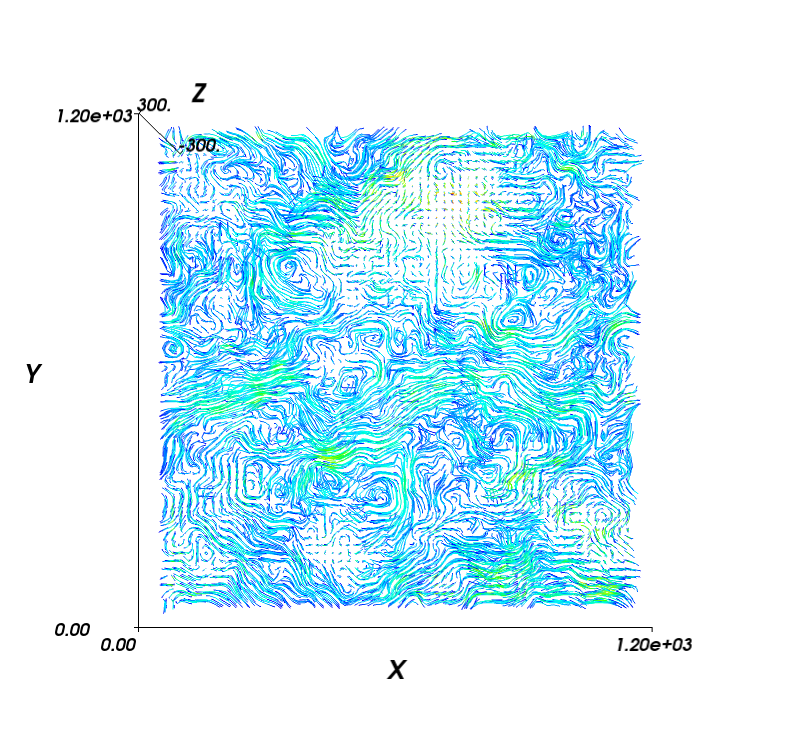
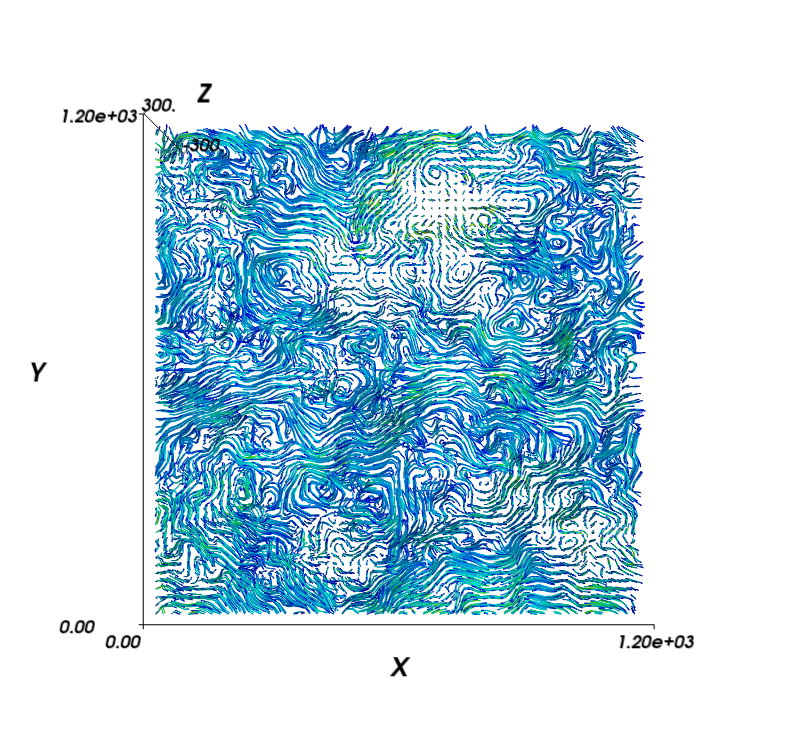
-updated docstring for MDAnalysis.visualization.streamlines_3D to include an example using the new coordinate boundary arguments -attempting a selective docs rebuild that only commits the modified pages/ images rather than full commit / push of mostly unchanged html pages

diff --git a/package/doc/html/documentation_pages/visualization/streamlines_3D.html b/package/doc/html/documentation_pages/visualization/streamlines_3D.html
@@ -100,13 +100,13 @@
 </tr>
 <tr class="field-odd field"><th class="field-name">Copyright:</th><td class="field-body">GNU Public License v3</td>
 </tr>
-<tr class="field-even field"><th class="field-name">Citation:</th><td class="field-body"><a class="reference internal" href="streamlines.html#chavent-and-reddy-2014">[Chavent_and_Reddy_2014]</a></td>
+<tr class="field-even field"><th class="field-name">Citation:</th><td class="field-body"><a class="reference internal" href="streamlines.html#chavent2014">[Chavent2014]</a></td>
 </tr>
 </tbody>
 </table>
 <dl class="function">
 <dt id="MDAnalysis.visualization.streamlines_3D.generate_streamlines_3d">
-<tt class="descclassname">MDAnalysis.visualization.streamlines_3D.</tt><tt class="descname">generate_streamlines_3d</tt><big>(</big><em>coordinate_file_path</em>, <em>trajectory_file_path</em>, <em>grid_spacing</em>, <em>MDA_selection</em>, <em>start_frame</em>, <em>end_frame</em>, <em>buffer_value=30.0</em>, <em>maximum_delta_magnitude=2.0</em>, <em>num_cores='maximum'</em><big>)</big><a class="reference internal" href="../../_modules/MDAnalysis/visualization/streamlines_3D.html#generate_streamlines_3d"><span class="viewcode-link">[source]</span></a><a class="headerlink" href="#MDAnalysis.visualization.streamlines_3D.generate_streamlines_3d" title="Permalink to this definition">¶</a></dt>
+<tt class="descclassname">MDAnalysis.visualization.streamlines_3D.</tt><tt class="descname">generate_streamlines_3d</tt><big>(</big><em>coordinate_file_path</em>, <em>trajectory_file_path</em>, <em>grid_spacing</em>, <em>MDA_selection</em>, <em>start_frame</em>, <em>end_frame</em>, <em>xmin</em>, <em>xmax</em>, <em>ymin</em>, <em>ymax</em>, <em>zmin</em>, <em>zmax</em>, <em>maximum_delta_magnitude=2.0</em>, <em>num_cores='maximum'</em><big>)</big><a class="reference internal" href="../../_modules/MDAnalysis/visualization/streamlines_3D.html#generate_streamlines_3d"><span class="viewcode-link">[source]</span></a><a class="headerlink" href="#MDAnalysis.visualization.streamlines_3D.generate_streamlines_3d" title="Permalink to this definition">¶</a></dt>
 <dd><p>Produce the x, y and z components of a 3D streamplot data set.</p>
 <table class="docutils field-list" frame="void" rules="none">
 <col class="field-name" />
@@ -117,7 +117,7 @@
 <dd><p class="first last">Absolute path to the coordinate file</p>
 </dd>
 <dt><strong>trajectory_file_path</strong> <span class="classifier-delimiter">:</span> <span class="classifier">str</span></dt>
-<dd><p class="first last">Absolute path to the trajectory file. It will normally be desirable to filter the trajectory with a tool such as GROMACS g_filter (see <a class="reference internal" href="streamlines.html#chavent-and-reddy-2014">[Chavent_and_Reddy_2014]</a>)</p>
+<dd><p class="first last">Absolute path to the trajectory file. It will normally be desirable to filter the trajectory with a tool such as GROMACS g_filter (see <a class="reference internal" href="streamlines.html#chavent2014">[Chavent2014]</a>)</p>
 </dd>
 <dt><strong>grid_spacing</strong> <span class="classifier-delimiter">:</span> <span class="classifier">float</span></dt>
 <dd><p class="first last">The spacing between grid lines (angstroms)</p>
@@ -131,8 +131,23 @@
 <dt><strong>end_frame</strong> <span class="classifier-delimiter">:</span> <span class="classifier">int</span></dt>
 <dd><p class="first last">Last frame number to parse</p>
 </dd>
-<dt><strong>buffer_value</strong> <span class="classifier-delimiter">:</span> <span class="classifier">float</span></dt>
-<dd><p class="first last">Extra space placed around the Cartesian limits of the 3D system when assigning the boundaries (angstroms; default: 30.0). Use to avoid neglecting particles near the edges of the system.</p>
+<dt><strong>xmin</strong> <span class="classifier-delimiter">:</span> <span class="classifier">float</span></dt>
+<dd><p class="first last">Minimum coordinate boundary for x-axis (angstroms)</p>
+</dd>
+<dt><strong>xmax</strong> <span class="classifier-delimiter">:</span> <span class="classifier">float</span></dt>
+<dd><p class="first last">Maximum coordinate boundary for x-axis (angstroms)</p>
+</dd>
+<dt><strong>ymin</strong> <span class="classifier-delimiter">:</span> <span class="classifier">float</span></dt>
+<dd><p class="first last">Minimum coordinate boundary for y-axis (angstroms)</p>
+</dd>
+<dt><strong>ymax</strong> <span class="classifier-delimiter">:</span> <span class="classifier">float</span></dt>
+<dd><p class="first last">Maximum coordinate boundary for y-axis (angstroms)</p>
+</dd>
+<dt><strong>zmin</strong> <span class="classifier-delimiter">:</span> <span class="classifier">float</span></dt>
+<dd><p class="first last">Minimum coordinate boundary for z-axis (angstroms)</p>
+</dd>
+<dt><strong>zmax</strong> <span class="classifier-delimiter">:</span> <span class="classifier">float</span></dt>
+<dd><p class="first last">Maximum coordinate boundary for z-axis (angstroms)</p>
 </dd>
 <dt><strong>maximum_delta_magnitude</strong> <span class="classifier-delimiter">:</span> <span class="classifier">float</span></dt>
 <dd><p class="first last">Absolute value of the largest displacement (in dx,dy, or dz) tolerated for the centroid of a group of particles (angstroms; default: 2.0). Values above this displacement will not count in the streamplot (treated as excessively large displacements crossing the periodic boundary)</p>
@@ -165,22 +180,30 @@
 <span class="kn">import</span> <span class="nn">MDAnalysis.visualization.streamlines_3D</span>
 <span class="kn">import</span> <span class="nn">mayavi</span><span class="o">,</span> <span class="nn">mayavi.mlab</span>
 
-<span class="n">x1</span><span class="p">,</span> <span class="n">y1</span><span class="p">,</span> <span class="n">z1</span> <span class="o">=</span> <span class="n">MDAnalysis</span><span class="o">.</span><span class="n">visualization</span><span class="o">.</span><span class="n">streamlines_3D</span><span class="o">.</span><span class="n">generate_streamlines_3d</span><span class="p">(</span><span class="s">&#39;testing.gro&#39;</span><span class="p">,</span><span class="s">&#39;testing_filtered.xtc&#39;</span><span class="p">,</span><span class="n">buffer_value</span> <span class="o">=</span> <span class="mi">30</span><span class="p">,</span> <span class="n">grid_spacing</span> <span class="o">=</span> <span class="mi">20</span><span class="p">,</span> <span class="n">MDA_selection</span> <span class="o">=</span> <span class="s">&#39;name PO4&#39;</span><span class="p">,</span><span class="n">start_frame</span><span class="o">=</span><span class="mi">2</span><span class="p">,</span><span class="n">end_frame</span><span class="o">=</span><span class="mi">3</span><span class="p">,</span><span class="n">num_cores</span><span class="o">=</span><span class="s">&#39;maximum&#39;</span><span class="p">)</span>
-<span class="k">print</span> <span class="n">x1</span><span class="o">.</span><span class="n">shape</span><span class="p">,</span><span class="n">y1</span><span class="o">.</span><span class="n">shape</span><span class="p">,</span><span class="n">z1</span><span class="o">.</span><span class="n">shape</span>
-<span class="n">x</span><span class="p">,</span><span class="n">y</span><span class="p">,</span><span class="n">z</span><span class="o">=</span> <span class="n">numpy</span><span class="o">.</span><span class="n">mgrid</span><span class="p">[</span><span class="o">-</span><span class="mf">8.73</span><span class="p">:</span><span class="mf">1225.96</span><span class="p">:</span><span class="mi">62j</span><span class="p">,</span><span class="o">-</span><span class="mf">12.58</span><span class="p">:</span><span class="mf">1224.34</span><span class="p">:</span><span class="mi">62j</span><span class="p">,</span><span class="mf">12.89</span><span class="p">:</span><span class="mf">108.5</span><span class="p">:</span><span class="mi">6j</span><span class="p">]</span> <span class="c">#bilayer test grid (use same shapes as x1,y1,z1)</span>
-<span class="c">#use a grid of seed lines to produce the streamlines:</span>
+<span class="c">#assign coordinate system limits and grid spacing:</span>
+<span class="n">x_lower</span><span class="p">,</span><span class="n">x_upper</span> <span class="o">=</span> <span class="o">-</span><span class="mf">8.73</span><span class="p">,</span> <span class="mf">1225.96</span>
+<span class="n">y_lower</span><span class="p">,</span><span class="n">y_upper</span> <span class="o">=</span> <span class="o">-</span><span class="mf">12.58</span><span class="p">,</span> <span class="mf">1224.34</span>
+<span class="n">z_lower</span><span class="p">,</span><span class="n">z_upper</span> <span class="o">=</span> <span class="o">-</span><span class="mi">300</span><span class="p">,</span> <span class="mi">300</span>
+<span class="n">grid_spacing_value</span> <span class="o">=</span> <span class="mi">20</span>
+
+<span class="n">x1</span><span class="p">,</span> <span class="n">y1</span><span class="p">,</span> <span class="n">z1</span> <span class="o">=</span> <span class="n">MDAnalysis</span><span class="o">.</span><span class="n">visualization</span><span class="o">.</span><span class="n">streamlines_3D</span><span class="o">.</span><span class="n">generate_streamlines_3d</span><span class="p">(</span><span class="s">&#39;testing.gro&#39;</span><span class="p">,</span><span class="s">&#39;testing_filtered.xtc&#39;</span><span class="p">,</span><span class="n">xmin</span><span class="o">=</span><span class="n">x_lower</span><span class="p">,</span><span class="n">xmax</span><span class="o">=</span><span class="n">x_upper</span><span class="p">,</span><span class="n">ymin</span><span class="o">=</span><span class="n">y_lower</span><span class="p">,</span><span class="n">ymax</span><span class="o">=</span><span class="n">y_upper</span><span class="p">,</span><span class="n">zmin</span><span class="o">=</span><span class="n">z_lower</span><span class="p">,</span><span class="n">zmax</span><span class="o">=</span><span class="n">z_upper</span><span class="p">,</span><span class="n">grid_spacing</span> <span class="o">=</span> <span class="n">grid_spacing_value</span><span class="p">,</span> <span class="n">MDA_selection</span> <span class="o">=</span> <span class="s">&#39;name PO4&#39;</span><span class="p">,</span><span class="n">start_frame</span><span class="o">=</span><span class="mi">2</span><span class="p">,</span><span class="n">end_frame</span><span class="o">=</span><span class="mi">3</span><span class="p">,</span><span class="n">num_cores</span><span class="o">=</span><span class="s">&#39;maximum&#39;</span><span class="p">)</span>
+<span class="n">x</span><span class="p">,</span><span class="n">y</span><span class="p">,</span><span class="n">z</span> <span class="o">=</span> <span class="n">numpy</span><span class="o">.</span><span class="n">mgrid</span><span class="p">[</span><span class="n">x_lower</span><span class="p">:</span><span class="n">x_upper</span><span class="p">:</span><span class="n">x1</span><span class="o">.</span><span class="n">shape</span><span class="p">[</span><span class="mi">0</span><span class="p">]</span><span class="o">*</span><span class="mi">1j</span><span class="p">,</span><span class="n">y_lower</span><span class="p">:</span><span class="n">y_upper</span><span class="p">:</span><span class="n">y1</span><span class="o">.</span><span class="n">shape</span><span class="p">[</span><span class="mi">1</span><span class="p">]</span><span class="o">*</span><span class="mi">1j</span><span class="p">,</span><span class="n">z_lower</span><span class="p">:</span><span class="n">z_upper</span><span class="p">:</span><span class="n">z1</span><span class="o">.</span><span class="n">shape</span><span class="p">[</span><span class="mi">2</span><span class="p">]</span><span class="o">*</span><span class="mi">1j</span><span class="p">]</span> 
+
+<span class="c">#plot with mayavi:</span>
 <span class="n">fig</span> <span class="o">=</span> <span class="n">mayavi</span><span class="o">.</span><span class="n">mlab</span><span class="o">.</span><span class="n">figure</span><span class="p">(</span><span class="n">bgcolor</span><span class="o">=</span><span class="p">(</span><span class="mf">1.0</span><span class="p">,</span><span class="mf">1.0</span><span class="p">,</span><span class="mf">1.0</span><span class="p">),</span><span class="n">size</span><span class="o">=</span><span class="p">(</span><span class="mi">800</span><span class="p">,</span><span class="mi">800</span><span class="p">),</span><span class="n">fgcolor</span><span class="o">=</span><span class="p">(</span><span class="mi">0</span><span class="p">,</span> <span class="mi">0</span><span class="p">,</span> <span class="mi">0</span><span class="p">))</span>
-<span class="k">for</span> <span class="n">x_value</span> <span class="ow">in</span> <span class="n">numpy</span><span class="o">.</span><span class="n">arange</span><span class="p">(</span><span class="o">-</span><span class="mi">20</span><span class="p">,</span><span class="mi">1200</span><span class="p">,</span><span class="mi">20</span><span class="p">):</span>
-    <span class="k">for</span> <span class="n">y_value</span> <span class="ow">in</span> <span class="n">numpy</span><span class="o">.</span><span class="n">arange</span><span class="p">(</span><span class="o">-</span><span class="mi">20</span><span class="p">,</span><span class="mi">1200</span><span class="p">,</span><span class="mi">20</span><span class="p">):</span>
-        <span class="n">st</span> <span class="o">=</span> <span class="n">mayavi</span><span class="o">.</span><span class="n">mlab</span><span class="o">.</span><span class="n">flow</span><span class="p">(</span><span class="n">x</span><span class="p">,</span><span class="n">y</span><span class="p">,</span><span class="n">z</span><span class="p">,</span><span class="n">x1</span><span class="p">,</span><span class="n">y1</span><span class="p">,</span><span class="n">z1</span><span class="p">,</span><span class="n">line_width</span><span class="o">=</span><span class="mi">1</span><span class="p">,</span><span class="n">seedtype</span><span class="o">=</span><span class="s">&#39;line&#39;</span><span class="p">,</span><span class="n">integration_direction</span><span class="o">=</span><span class="s">&#39;both&#39;</span><span class="p">)</span>
-        <span class="n">st</span><span class="o">.</span><span class="n">seed</span><span class="o">.</span><span class="n">widget</span><span class="o">.</span><span class="n">point1</span> <span class="o">=</span> <span class="p">[</span><span class="n">x_value</span><span class="p">,</span><span class="n">y_value</span><span class="p">,</span><span class="mi">12</span><span class="p">]</span>
-        <span class="n">st</span><span class="o">.</span><span class="n">seed</span><span class="o">.</span><span class="n">widget</span><span class="o">.</span><span class="n">point2</span> <span class="o">=</span> <span class="p">[</span><span class="n">x_value</span><span class="p">,</span><span class="n">y_value</span><span class="p">,</span><span class="mi">110</span><span class="p">]</span>
-        <span class="n">st</span><span class="o">.</span><span class="n">seed</span><span class="o">.</span><span class="n">widget</span><span class="o">.</span><span class="n">enabled</span> <span class="o">=</span> <span class="bp">False</span>
-        <span class="n">st</span><span class="o">.</span><span class="n">seed</span><span class="o">.</span><span class="n">widget</span><span class="o">.</span><span class="n">resolution</span> <span class="o">=</span> <span class="mi">25</span>
+<span class="k">for</span> <span class="n">z_value</span> <span class="ow">in</span> <span class="n">numpy</span><span class="o">.</span><span class="n">arange</span><span class="p">(</span><span class="n">z_lower</span><span class="p">,</span><span class="n">z_upper</span><span class="p">,</span><span class="n">grid_spacing_value</span><span class="p">):</span>
+    <span class="n">st</span> <span class="o">=</span> <span class="n">mayavi</span><span class="o">.</span><span class="n">mlab</span><span class="o">.</span><span class="n">flow</span><span class="p">(</span><span class="n">x</span><span class="p">,</span><span class="n">y</span><span class="p">,</span><span class="n">z</span><span class="p">,</span><span class="n">x1</span><span class="p">,</span><span class="n">y1</span><span class="p">,</span><span class="n">z1</span><span class="p">,</span><span class="n">line_width</span><span class="o">=</span><span class="mi">1</span><span class="p">,</span><span class="n">seedtype</span><span class="o">=</span><span class="s">&#39;plane&#39;</span><span class="p">,</span><span class="n">integration_direction</span><span class="o">=</span><span class="s">&#39;both&#39;</span><span class="p">)</span>
+    <span class="n">st</span><span class="o">.</span><span class="n">streamline_type</span> <span class="o">=</span> <span class="s">&#39;tube&#39;</span>
+    <span class="n">st</span><span class="o">.</span><span class="n">tube_filter</span><span class="o">.</span><span class="n">radius</span> <span class="o">=</span> <span class="mi">2</span>
+    <span class="n">st</span><span class="o">.</span><span class="n">seed</span><span class="o">.</span><span class="n">widget</span><span class="o">.</span><span class="n">origin</span> <span class="o">=</span> <span class="n">numpy</span><span class="o">.</span><span class="n">array</span><span class="p">([</span> <span class="n">x_lower</span><span class="p">,</span>  <span class="n">y_upper</span><span class="p">,</span>   <span class="n">z_value</span><span class="p">])</span>
+    <span class="n">st</span><span class="o">.</span><span class="n">seed</span><span class="o">.</span><span class="n">widget</span><span class="o">.</span><span class="n">point1</span> <span class="o">=</span> <span class="n">numpy</span><span class="o">.</span><span class="n">array</span><span class="p">([</span> <span class="n">x_upper</span><span class="p">,</span> <span class="n">y_upper</span><span class="p">,</span>  <span class="n">z_value</span><span class="p">])</span>
+    <span class="n">st</span><span class="o">.</span><span class="n">seed</span><span class="o">.</span><span class="n">widget</span><span class="o">.</span><span class="n">point2</span> <span class="o">=</span> <span class="n">numpy</span><span class="o">.</span><span class="n">array</span><span class="p">([</span> <span class="n">x_lower</span><span class="p">,</span> <span class="n">y_lower</span><span class="p">,</span>  <span class="n">z_value</span><span class="p">])</span>
+    <span class="n">st</span><span class="o">.</span><span class="n">seed</span><span class="o">.</span><span class="n">widget</span><span class="o">.</span><span class="n">resolution</span> <span class="o">=</span> <span class="nb">int</span><span class="p">(</span><span class="n">x1</span><span class="o">.</span><span class="n">shape</span><span class="p">[</span><span class="mi">0</span><span class="p">])</span>
+    <span class="n">st</span><span class="o">.</span><span class="n">seed</span><span class="o">.</span><span class="n">widget</span><span class="o">.</span><span class="n">enabled</span> <span class="o">=</span> <span class="bp">False</span>
 <span class="n">mayavi</span><span class="o">.</span><span class="n">mlab</span><span class="o">.</span><span class="n">axes</span><span class="p">(</span><span class="n">extent</span> <span class="o">=</span> <span class="p">[</span><span class="mi">0</span><span class="p">,</span><span class="mi">1200</span><span class="p">,</span><span class="mi">0</span><span class="p">,</span><span class="mi">1200</span><span class="p">,</span><span class="o">-</span><span class="mi">300</span><span class="p">,</span><span class="mi">300</span><span class="p">])</span>
 <span class="n">fig</span><span class="o">.</span><span class="n">scene</span><span class="o">.</span><span class="n">z_plus_view</span><span class="p">()</span>
 <span class="n">mayavi</span><span class="o">.</span><span class="n">mlab</span><span class="o">.</span><span class="n">savefig</span><span class="p">(</span><span class="s">&#39;test_streamplot_3D.png&#39;</span><span class="p">)</span>
-<span class="c">#more compelling (but more time consuming) examples can be produced for vesicles and other spherical systems</span>
+<span class="c">#more compelling examples can be produced for vesicles and other spherical systems</span>
 </pre></div>
 </div>
 <img alt="../../_images/test_streamplot_3D.png" src="../../_images/test_streamplot_3D.png" />
@@ -219,7 +242,7 @@
     Lennard van der Feltz, Philip Fowler, Joseph Goose, Richard J. Gowers, Lukas Grossar,
     Benjamin Hall, Jinju Lu, Robert McGibbon,
     Manuel Nuno Melo, Danny Parton, Joshua L. Phillips, Tyler Reddy, Paul Rigor, Andy Somogyi,
-    Lukas Stelzl, Zhuyi Xue, and Oliver Beckstein.
+    Lukas Stelzl, Zhuyi Xue, Matthieu Chavent and Oliver Beckstein.
       Created using <a href="http://sphinx.pocoo.org/">Sphinx</a> 1.1.3.
     </div>
   </body>

diff --git a/package/MDAnalysis/visualization/streamlines_3D.py b/package/MDAnalysis/visualization/streamlines_3D.py
@@ -230,22 +230,30 @@ def generate_streamlines_3d(coordinate_file_path,trajectory_file_path,grid_spaci
         import MDAnalysis.visualization.streamlines_3D
         import mayavi, mayavi.mlab
 
-        x1, y1, z1 = MDAnalysis.visualization.streamlines_3D.generate_streamlines_3d('testing.gro','testing_filtered.xtc',buffer_value = 30, grid_spacing = 20, MDA_selection = 'name PO4',start_frame=2,end_frame=3,num_cores='maximum')
-        print x1.shape,y1.shape,z1.shape
-        x,y,z= numpy.mgrid[-8.73:1225.96:62j,-12.58:1224.34:62j,12.89:108.5:6j] #bilayer test grid (use same shapes as x1,y1,z1)
-        #use a grid of seed lines to produce the streamlines:
+        #assign coordinate system limits and grid spacing:
+        x_lower,x_upper = -8.73, 1225.96
+        y_lower,y_upper = -12.58, 1224.34
+        z_lower,z_upper = -300, 300
+        grid_spacing_value = 20
+
+        x1, y1, z1 = MDAnalysis.visualization.streamlines_3D.generate_streamlines_3d('testing.gro','testing_filtered.xtc',xmin=x_lower,xmax=x_upper,ymin=y_lower,ymax=y_upper,zmin=z_lower,zmax=z_upper,grid_spacing = grid_spacing_value, MDA_selection = 'name PO4',start_frame=2,end_frame=3,num_cores='maximum')
+        x,y,z = numpy.mgrid[x_lower:x_upper:x1.shape[0]*1j,y_lower:y_upper:y1.shape[1]*1j,z_lower:z_upper:z1.shape[2]*1j] 
+
+        #plot with mayavi:
         fig = mayavi.mlab.figure(bgcolor=(1.0,1.0,1.0),size=(800,800),fgcolor=(0, 0, 0))
-        for x_value in numpy.arange(-20,1200,20):
-            for y_value in numpy.arange(-20,1200,20):
-                st = mayavi.mlab.flow(x,y,z,x1,y1,z1,line_width=1,seedtype='line',integration_direction='both')
-                st.seed.widget.point1 = [x_value,y_value,12]
-                st.seed.widget.point2 = [x_value,y_value,110]
-                st.seed.widget.enabled = False
-                st.seed.widget.resolution = 25
+        for z_value in numpy.arange(z_lower,z_upper,grid_spacing_value):
+            st = mayavi.mlab.flow(x,y,z,x1,y1,z1,line_width=1,seedtype='plane',integration_direction='both')
+            st.streamline_type = 'tube'
+            st.tube_filter.radius = 2
+            st.seed.widget.origin = numpy.array([ x_lower,  y_upper,   z_value])
+            st.seed.widget.point1 = numpy.array([ x_upper, y_upper,  z_value])
+            st.seed.widget.point2 = numpy.array([ x_lower, y_lower,  z_value])
+            st.seed.widget.resolution = int(x1.shape[0])
+            st.seed.widget.enabled = False
         mayavi.mlab.axes(extent = [0,1200,0,1200,-300,300])
         fig.scene.z_plus_view()
         mayavi.mlab.savefig('test_streamplot_3D.png')
-        #more compelling (but more time consuming) examples can be produced for vesicles and other spherical systems
+        #more compelling examples can be produced for vesicles and other spherical systems
 
     .. image:: test_streamplot_3D.png
 
